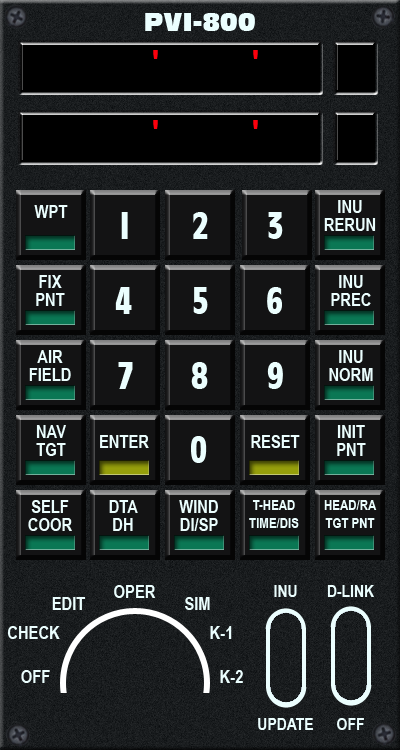
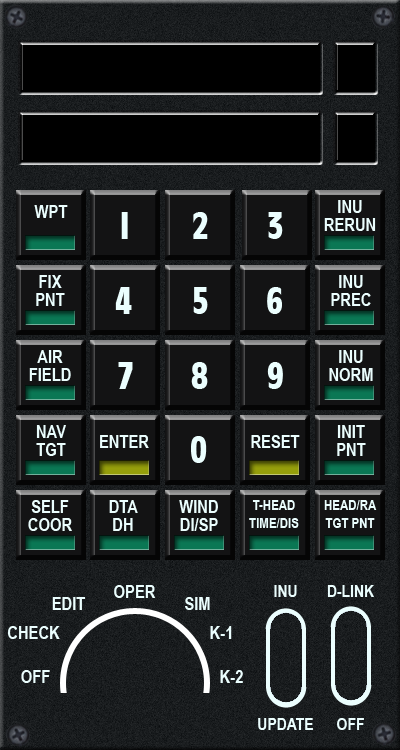
Fin debug PVI

Changed region(s): [[0.36, 0.0, 0.63, 0.0613], [0.63, 0.1533, 0.66, 0.184], [0.63, 0.0613, 0.66, 0.092]]

diff --git a/js/panel_pvi.js b/js/panel_pvi.js
@@ -29,42 +29,75 @@ function panel_pvi_update(KaTZPit_data){
 	// Selecteur PVI
 	switch_PVI(dataread_posit(KaTZPit_data["Pvi800_6"],1)+5,1)
 	
-	// Affichage PVI
-	var num1 = KaTZPit_data["Pvi800_1"].toString()
-	var num2 = KaTZPit_data["Pvi800_2"].toString()
 	
-	if (KaTZPit_data["Pvi800_1"] > 999){
-	document.getElementById('PVI_T13').style.display = "block"; document.getElementById('PVI_T13').innerHTML = num1.substr(-1,1)
-	document.getElementById('PVI_T12').style.display = "block"; document.getElementById('PVI_T12').innerHTML = num1.substr(-3,2)
-	document.getElementById('PVI_T11').innerHTML = Math.floor(KaTZPit_data["Pvi800_1"].toString() / 1000)}
-	
-	else {
-	document.getElementById('PVI_T11').innerHTML = (KaTZPit_data["Pvi800_1"] + 1000).toString().substring(1, 4)
+	// Affichage Data PVI tout à zero
+	if (KaTZPit_data["Pvi800_1"] ==0 && KaTZPit_data["Pvi800_2"] ==0){
+	document.getElementById('PVI_T11').style.display = "none"
 	document.getElementById('PVI_T12').style.display = "none"
 	document.getElementById('PVI_T13').style.display = "none"
-	}
-	
-	if (KaTZPit_data["Pvi800_2"] > 999){
-	document.getElementById('PVI_T23').style.display = "block"; document.getElementById('PVI_T23').innerHTML = num2.substr(-1,1)
-	document.getElementById('PVI_T22').style.display = "block"; document.getElementById('PVI_T22').innerHTML = num2.substr(-3,2)
-	document.getElementById('PVI_T21').innerHTML = Math.floor(KaTZPit_data["Pvi800_2"].toString() / 1000)}
-	
-	else {
-	document.getElementById('PVI_T21').innerHTML = (KaTZPit_data["Pvi800_2"] + 1000).toString().substring(1, 4)
+	document.getElementById('PVI_T21').style.display = "none"
 	document.getElementById('PVI_T22').style.display = "none"
 	document.getElementById('PVI_T23').style.display = "none"
 	}
 	
+	else {
+	
+		// Affichage Data PVI Ligne 1
+		var num1 = KaTZPit_data["Pvi800_1"].toString()
+		
+		if (KaTZPit_data["Pvi800_1"] > 999){
+		document.getElementById('PVI_T13').style.display = "block"; document.getElementById('PVI_T13').innerHTML = num1.substr(-1,1)
+		document.getElementById('PVI_T12').style.display = "block"; document.getElementById('PVI_T12').innerHTML = num1.substr(-3,2)
+		document.getElementById('PVI_T11').style.display = "block"; document.getElementById('PVI_T11').innerHTML = Math.floor(KaTZPit_data["Pvi800_1"] / 1000)}
+		
+		else {
+			if (KaTZPit_data["Pvi800_1"] == 999) {document.getElementById('PVI_T11').style.display = "none"}
+			else { document.getElementById('PVI_T11').style.display = "block";	document.getElementById('PVI_T11').innerHTML = (KaTZPit_data["Pvi800_1"] + 1000).toString().substring(1, 4)}
+		document.getElementById('PVI_T12').style.display = "none"
+		document.getElementById('PVI_T13').style.display = "none"
+		}
+		
+		// Affichage Data PVI Ligne 2
+		var num2 = KaTZPit_data["Pvi800_2"].toString()
+		
+		// Cas particulier de Headin/TGT dist
+		if (dataread_posit(KaTZPit_data["Pvi800_5"],1) ==1){
+		document.getElementById('PVI_T23').style.display = "none";
+		// Affichage de la décimale
+		document.getElementById('PVI_T22').style.display = "block" ; document.getElementById('PVI_T22').innerHTML = num2.substr(-1,1)
+		document.getElementById('PVI_T21').style.display = "block" ; document.getElementById('PVI_T21').innerHTML = Math.floor(KaTZPit_data["Pvi800_2"] / 10)
+		}
+		
+		// Autres cas d'affichage
+		else {
+			if (KaTZPit_data["Pvi800_2"] > 999){
+			document.getElementById('PVI_T23').style.display = "block"; document.getElementById('PVI_T23').innerHTML = num2.substr(-1,1)
+			document.getElementById('PVI_T22').style.display = "block"; document.getElementById('PVI_T22').innerHTML = num2.substr(-3,2)
+			document.getElementById('PVI_T21').style.display = "block"; document.getElementById('PVI_T21').innerHTML = Math.floor(KaTZPit_data["Pvi800_2"] / 1000)}
+			
+			else {
+				if (KaTZPit_data["Pvi800_2"] == 999) {document.getElementById('PVI_T21').style.display = "none"}
+				else { document.getElementById('PVI_T21').style.display = "block"; document.getElementById('PVI_T21').innerHTML = (KaTZPit_data["Pvi800_2"] + 1000).toString().substring(1, 4) }
+			document.getElementById('PVI_T22').style.display = "none"
+			document.getElementById('PVI_T23').style.display = "none"}
+		}
+	}	
+	
+	// Affichage Data PVI Case WP n° 1 et 2
 	var num3 = dataread_chiffre(KaTZPit_data["Pvi800_3"],2)
 	var num4 = dataread_chiffre(KaTZPit_data["Pvi800_3"],1)
-	console.log(num3)
 	
 	if (num3 == 0){document.getElementById('PVI_T3').style.display = "none"}
 	else {document.getElementById('PVI_T3').style.display = "block"; document.getElementById('PVI_T3').innerHTML = num3}
 	
 	if (num4 == 0){document.getElementById('PVI_T4').style.display = "none"}
 	else {document.getElementById('PVI_T4').style.display = "block"; document.getElementById('PVI_T4').innerHTML = num4}
-			
+
+	// Affichage Apostrophes PVI Ligne 1 et 2
+	if (dataread_posit(KaTZPit_data["Pvi800_3"],6) ==0) {$("#pvi_A11").fadeOut()} else {$("#pvi_A11").fadeIn()}	
+	if (dataread_posit(KaTZPit_data["Pvi800_3"],5) ==0) {$("#pvi_A12").fadeOut()} else {$("#pvi_A12").fadeIn()}	
+	if (dataread_posit(KaTZPit_data["Pvi800_3"],4) ==0) {$("#pvi_A21").fadeOut()} else {$("#pvi_A21").fadeIn()}	
+	if (dataread_posit(KaTZPit_data["Pvi800_3"],3) ==0) {$("#pvi_A22").fadeOut()} else {$("#pvi_A22").fadeIn()}	
 			
 }
 

diff --git a/Ka50-Pit.html b/Ka50-Pit.html
@@ -1657,7 +1657,7 @@
 	<img src="images/navigation/Led_Btn_Vert.png" width="50" height="16" id="pvi_323">
 	</SPAN>
 
-	<!-- Affichage Ligne 1 -->
+	<!-- Affichage Lignes de data  -->
 	<SPAN style="position: absolute; left: 40px; top: 36px; width: 110px; height: 50px ;  color:red;  text-align:right; font-size:340%" id="PVI_T11"> </SPAN>
 	<SPAN style="position: absolute; left: 165px; top: 36px; width: 80px; height: 50px ; color:red;  text-align:right; font-size:340%" id="PVI_T12"> </SPAN>
 	<SPAN style="position: absolute; left: 260px; top: 36px; width: 50px; height: 50px ; color:red;  text-align:right; font-size:340%" id="PVI_T13"> </SPAN>
@@ -1666,6 +1666,22 @@
 	<SPAN style="position: absolute; left: 260px; top: 106px; width: 50px; height: 50px ; color:red;  text-align:right; font-size:340%" id="PVI_T23"> </SPAN>
 	<SPAN style="position: absolute; left: 337px; top: 36px; width: 40px; height: 50px ; color:red;  text-align:center; font-size:340%" id="PVI_T3"> </SPAN>
 	<SPAN style="position: absolute; left: 337px; top: 106px; width: 40px; height: 50px ; color:red;  text-align:center; font-size:340%" id="PVI_T4"> </SPAN>
+
+
+
+	<!-- Affichage des apostrophe des textes -->
+	<SPAN style="position: absolute; left: 155px; top: 50px; width: 5px; height: 10px">
+	<img src="images/navigation/PVI_Apostrophe.png" width="5" height="10" id="pvi_A11">	</SPAN>
+	
+	<SPAN style="position: absolute; left: 255px; top: 50px; width: 5px; height: 10px">
+	<img src="images/navigation/PVI_Apostrophe.png" width="5" height="10" id="pvi_A12">	</SPAN>
+	
+	<SPAN style="position: absolute; left: 155px; top: 120px; width: 5px; height: 10px">
+	<img src="images/navigation/PVI_Apostrophe.png" width="5" height="10" id="pvi_A21">	</SPAN>
+	
+	<SPAN style="position: absolute; left: 255px; top: 120px; width: 5px; height: 10px">
+	<img src="images/navigation/PVI_Apostrophe.png" width="5" height="10" id="pvi_A22">	</SPAN>
+
 	
 	</div>		
 	

diff --git a/js/pit_init.js b/js/pit_init.js
@@ -38,7 +38,7 @@ function paneldata_init(){
 		D15_drift:50005000, D15_drift_V:55, Sling_2D:50005000, Sling_3D:50005000, 
 		DLinkL1:5555, DLinkL2:55555, DLinkL3:555555, Tgt_Btn:5555, Wpn_Ka:55555555, Wpn_Lamp:55, Wpn_Flag:55555,Wpn_Ammo:50005000,Wpn_SW_1:555555, Wpn_Ka_2:555555,Wpn_Ka_3:55555, Shkval_1: 55000000,
 		UV26_Data:50005000, UV26_Flag:5555, Abris1:50005000, Abris2:50005000, Abris3:50005000, 
-		Pvi800_1:0 , Pvi800_2:0, Pvi800_3:50005000, Pvi800_4:55555555 , Pvi800_5:5555555 , Pvi800_6:550,
+		Pvi800_1:999 , Pvi800_2:999, Pvi800_3:555500, Pvi800_4:55555555 , Pvi800_5:5555555 , Pvi800_6:550,
 		Collectif:0,
 		LowAlt:0,
 		FL_mode:0, FL_main:0, FL_main_old:0,
